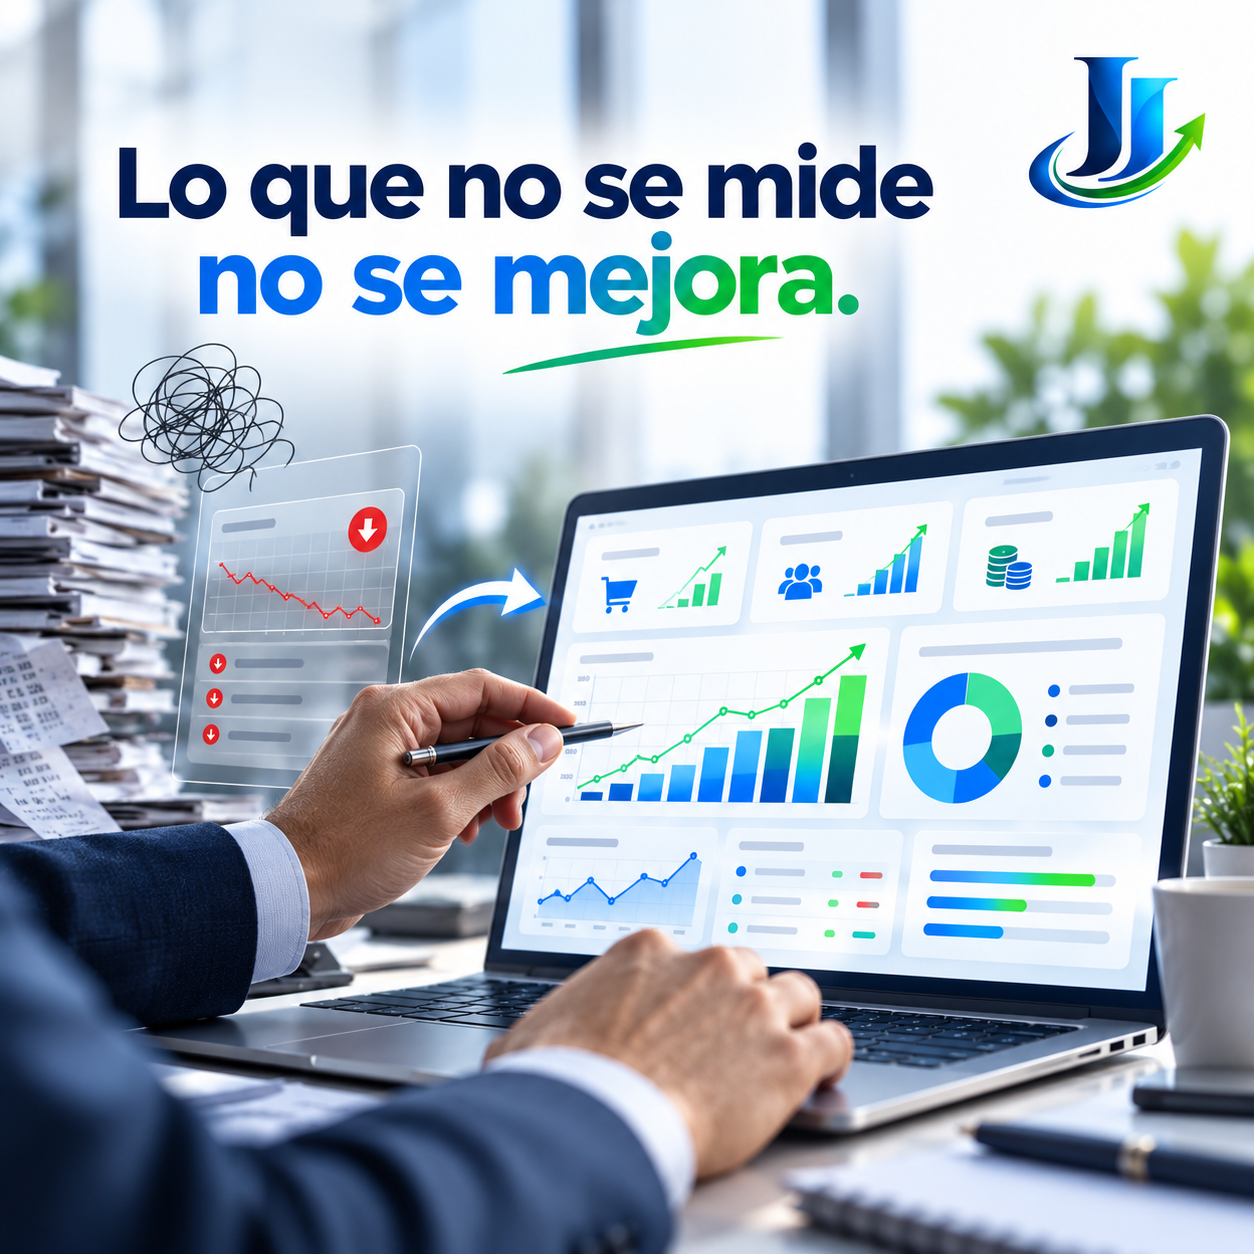
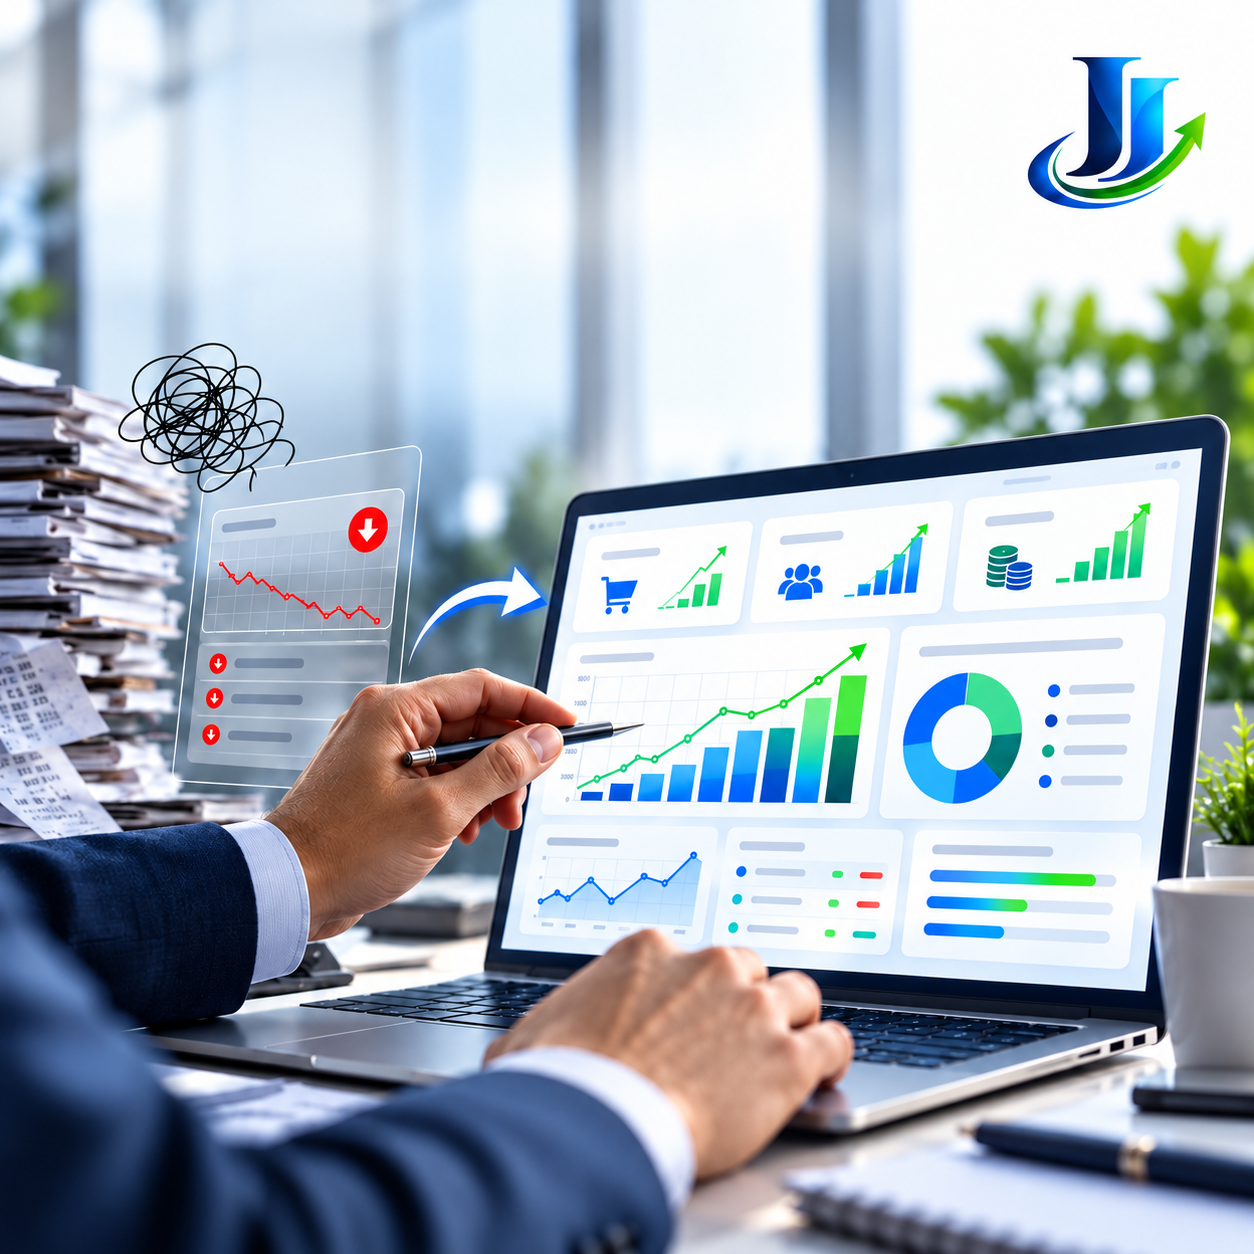
se agregan imagenes en las estrategia y cambio de fotos

diff --git a/styles.css b/styles.css
@@ -191,17 +191,32 @@ a {
 }
 
 .brand-logo {
-  height: 48px;
+  height: 54px;
   width: auto;
-  max-width: 230px;
+  max-width: 260px;
   object-fit: contain;
   display: block;
+  transition: transform 0.25s ease, opacity 0.25s ease;
 }
 
-@media (max-width: 640px) {
+@media (max-width: 900px) {
   .brand-logo {
-    height: 38px;
-    max-width: 175px;
+    height: 52px;
+    max-width: 240px;
+  }
+}
+
+@media (max-width: 768px) {
+  .brand-logo {
+    height: 50px;
+    max-width: 225px;
+  }
+}
+
+@media (max-width: 480px) {
+  .brand-logo {
+    height: 46px;
+    max-width: 200px;
   }
 }
 
@@ -1463,12 +1478,12 @@ a {
   position: relative;
   border-top: 1px solid rgba(255, 255, 255, 0.2);
   padding-top: 20px;
-  min-height: 255px;
-  transition: transform 0.25s ease;
+  min-height: 0;
+  transition: transform 0.35s cubic-bezier(0.34, 1.56, 0.64, 1);
 }
 
 .growth-step:hover {
-  transform: translateY(-4px);
+  transform: translateY(-6px);
 }
 
 .growth-top {
@@ -1478,6 +1493,8 @@ a {
   color: #7189AD;
   font-size: 0.74rem;
   font-weight: 700;
+  letter-spacing: 0.08em;
+  font-family: var(--display);
 }
 
 .growth-arrow {
@@ -1488,6 +1505,56 @@ a {
 .growth-arrow svg {
   width: 18px;
   height: 18px;
+}
+
+/* Framed media container for growth steps */
+.growth-media {
+  position: relative;
+  width: 100%;
+  aspect-ratio: 16 / 11;
+  border-radius: 16px;
+  overflow: hidden;
+  margin: 18px 0 20px;
+  background: var(--navy-deep);
+  border: 1px solid rgba(255, 255, 255, 0.12);
+  box-shadow: 0 12px 30px -10px rgba(0, 0, 0, 0.5);
+  transition: border-color 0.35s ease, box-shadow 0.35s ease;
+}
+
+.growth-img {
+  width: 100%;
+  height: 100%;
+  object-fit: cover;
+  object-position: center;
+  display: block;
+  transform: scale(1);
+  transition: transform 0.6s cubic-bezier(0.16, 1, 0.3, 1), filter 0.4s ease;
+}
+
+.growth-step:hover .growth-img {
+  transform: scale(1.06);
+}
+
+.growth-overlay {
+  position: absolute;
+  inset: 0;
+  background: linear-gradient(180deg, rgba(8, 19, 38, 0.05) 0%, rgba(8, 19, 38, 0.15) 50%, rgba(8, 19, 38, 0.6) 100%);
+  pointer-events: none;
+  transition: background 0.35s ease;
+}
+
+.growth-step:hover .growth-overlay {
+  background: linear-gradient(180deg, rgba(0, 194, 255, 0.08) 0%, rgba(8, 19, 38, 0.1) 50%, rgba(8, 19, 38, 0.7) 100%);
+}
+
+.growth-step:hover .growth-media {
+  border-color: rgba(0, 194, 255, 0.45);
+  box-shadow: 0 18px 40px -10px rgba(0, 0, 0, 0.65), 0 0 22px rgba(0, 194, 255, 0.16);
+}
+
+.growth-step.growth-final:hover .growth-media {
+  border-color: rgba(34, 197, 94, 0.45);
+  box-shadow: 0 18px 40px -10px rgba(0, 0, 0, 0.65), 0 0 22px rgba(34, 197, 94, 0.16);
 }
 
 .growth-symbol {
@@ -1512,12 +1579,24 @@ a {
   color: var(--white);
   letter-spacing: 0.08em;
   font-size: 1.25rem;
+  margin: 0 0 8px;
+  transition: color 0.25s ease;
+}
+
+.growth-step:hover h3 {
+  color: var(--cyan);
+}
+
+.growth-step.growth-final:hover h3 {
+  color: var(--green);
 }
 
 .growth-step p {
   color: #AEBDD4;
   font-size: 0.88rem;
-  max-width: 260px;
+  max-width: 280px;
+  line-height: 1.55;
+  margin: 0;
 }
 
 .growth-final .growth-symbol {
@@ -1936,50 +2015,42 @@ a {
 }
 
 .about-stamp {
-  border: 1px solid var(--line);
+  border: none;
   border-radius: 50%;
-  width: 230px;
-  height: 230px;
+  width: 260px;
+  height: 260px;
   margin-left: auto;
   display: flex;
-  flex-direction: column;
   align-items: center;
   justify-content: center;
   position: relative;
-  transform: rotate(-8deg);
-  color: var(--cobalt);
-  background: #FFFFFF;
-  box-shadow: 0 10px 30px rgba(0, 71, 171, 0.08);
+  transform: rotate(-6deg);
+  background: transparent;
+  box-shadow: 0 16px 40px rgba(0, 71, 171, 0.12);
+  transition: transform 0.4s cubic-bezier(0.16, 1, 0.3, 1), box-shadow 0.35s ease;
+  overflow: hidden;
+}
+
+.about-stamp:hover {
+  transform: scale(1.04) rotate(0deg);
+  box-shadow: 0 20px 50px rgba(0, 71, 171, 0.18), 0 0 25px rgba(0, 194, 255, 0.2);
 }
 
 .about-stamp::before {
-  content: '';
-  position: absolute;
-  inset: 10px;
-  border: 1px dashed #C7D5E5;
+  content: none;
+}
+
+.about-stamp-img {
+  width: 100%;
+  height: 100%;
+  object-fit: contain;
   border-radius: 50%;
+  display: block;
+  transition: transform 0.6s cubic-bezier(0.16, 1, 0.3, 1);
 }
 
-.about-stamp span, .about-stamp small, .about-stamp strong {
-  position: relative;
-}
-
-.about-stamp span {
-  font-size: 0.65rem;
-  letter-spacing: 0.28em;
-}
-
-.about-stamp strong {
-  text-align: center;
-  font: 700 2.1rem/1 var(--display);
-  color: var(--green);
-  margin: 7px 0;
-}
-
-.about-stamp small {
-  font-size: 0.52rem;
-  letter-spacing: 0.14em;
-  text-align: center;
+.about-stamp:hover .about-stamp-img {
+  transform: scale(1.05);
 }
 
 .team-grid {
@@ -3184,7 +3255,7 @@ a {
 @media (max-width: 768px) {
   .container { width: min(calc(100% - 32px), var(--max)); }
   .section { padding: 72px 0; }
-  .header-inner { height: 72px; }
+  .header-inner { height: 76px; }
   
   .menu-toggle.is-open span:nth-child(1) { transform: translateY(7px) rotate(45deg); }
   .menu-toggle.is-open span:nth-child(2) { opacity: 0; }
@@ -3255,6 +3326,7 @@ a {
 
   .growth-path { display: block; }
   .growth-step { min-height: 0; padding: 20px 0 16px; }
+  .growth-media { margin: 14px 0 16px; }
   .growth-symbol { margin: 18px 0 12px; }
   .growth-step p { max-width: 100%; }
 
@@ -3321,7 +3393,7 @@ a {
   .testimonial-placeholder { align-items: flex-start; padding: 20px; gap: 12px; }
   .testimonial-placeholder p { font-size: 1.05rem; }
 
-  .about-stamp { margin: 0 auto; width: 195px; height: 195px; }
+  .about-stamp { margin: 24px auto 0; width: 220px; height: 220px; }
   .team-card { grid-template-columns: 75px 1fr; padding: 22px; gap: 18px; }
   .avatar { width: 70px; height: 70px; font-size: 1.2rem; }
   .team-card h3 { font-size: 1.3rem; }

diff --git a/index.html b/index.html
@@ -267,21 +267,30 @@
         <div class="growth-path" data-animate="growth-path">
           <article class="growth-step growth-step-1">
             <div class="growth-top"><span>01</span><span class="growth-arrow"><i data-lucide="arrow-right"></i></span></div>
-            <div class="growth-symbol"><i data-lucide="boxes"></i></div>
+            <div class="growth-media">
+              <img src="img/organizar.PNG" alt="Organizar - Sistemas y estructura de negocio" class="growth-img" width="400" height="275" loading="lazy" decoding="async" />
+              <div class="growth-overlay"></div>
+            </div>
             <h3 data-i18n="organizeTitle">ORGANIZE</h3>
             <p data-i18n="organizeText">Build better systems, controls, and structure for your business.</p>
           </article>
           <div class="path-line" aria-hidden="true"><div class="path-line-fill"></div></div>
           <article class="growth-step growth-step-2">
             <div class="growth-top"><span>02</span><span class="growth-arrow"><i data-lucide="arrow-right"></i></span></div>
-            <div class="growth-symbol"><i data-lucide="line-chart"></i></div>
+            <div class="growth-media">
+              <img src="img/medir.PNG" alt="Medir - Métricas y desempeño confiable" class="growth-img" width="400" height="275" loading="lazy" decoding="async" />
+              <div class="growth-overlay"></div>
+            </div>
             <h3 data-i18n="measureTitle">MEASURE</h3>
             <p data-i18n="measureText">Understand income, expenses, operations, and performance through reliable information.</p>
           </article>
           <div class="path-line" aria-hidden="true"><div class="path-line-fill"></div></div>
           <article class="growth-step growth-step-3 growth-final">
             <div class="growth-top"><span>03</span><span class="growth-arrow"><i data-lucide="arrow-up-right"></i></span></div>
-            <div class="growth-symbol"><i data-lucide="trending-up"></i></div>
+            <div class="growth-media">
+              <img src="img/crecer.PNG" alt="Crecer - Estrategia, tecnología y decisiones inteligentes" class="growth-img" width="400" height="275" loading="lazy" decoding="async" />
+              <div class="growth-overlay"></div>
+            </div>
             <h3 data-i18n="growTitle">GROW</h3>
             <p data-i18n="growText">Use better information, technology, and strategy to identify opportunities and make smarter decisions.</p>
           </article>
@@ -419,10 +428,8 @@
             <h2 id="about-title" data-i18n="aboutTitle">Business experience meets technology.</h2>
             <p data-i18n="aboutIntro">Double J Solutions brings together business administration and technology with one shared purpose: helping entrepreneurs build more organized, efficient, and digitally prepared businesses.</p>
           </div>
-          <div class="about-stamp" aria-hidden="true" data-animate="stamp-rotate">
-            <span>DOUBLE J</span>
-            <strong>+<br />TECH</strong>
-            <small>BUILDING BETTER<br />BUSINESSES</small>
+          <div class="about-stamp" data-animate="stamp-rotate">
+            <img src="img/tech.PNG" alt="Double J Solutions — Business + Technology" class="about-stamp-img" width="260" height="260" loading="lazy" decoding="async" />
           </div>
         </div>
         <div class="team-grid" data-animate="stagger-cards">
